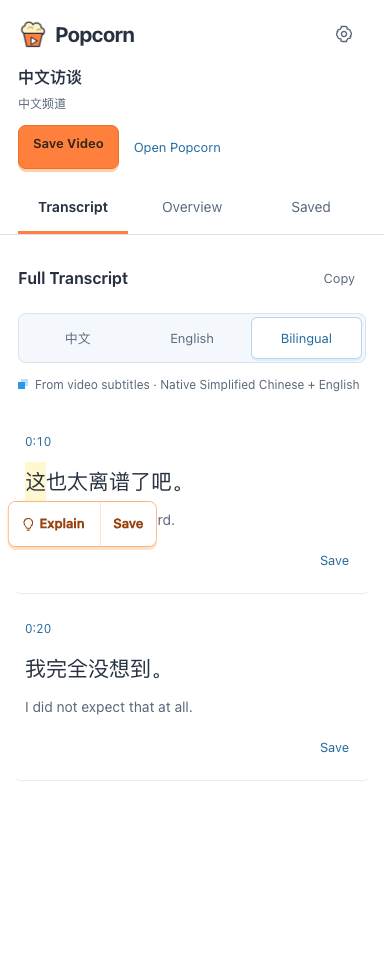
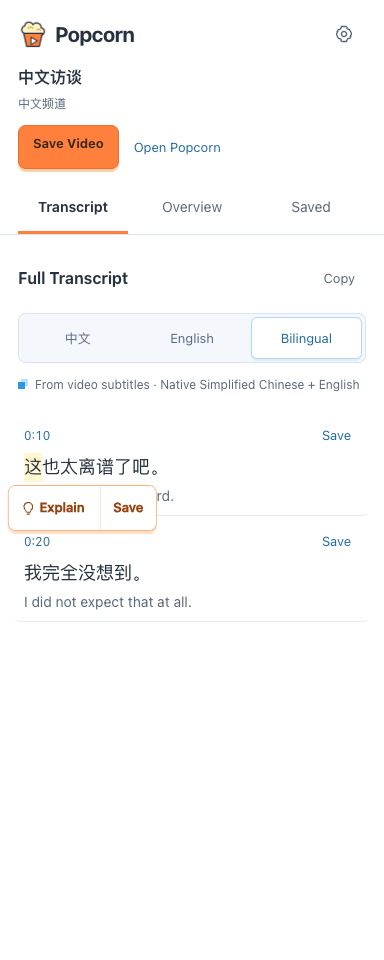
fix(extension): compact transcript rows

diff --git a/extension/sidepanel.css b/extension/sidepanel.css
@@ -65,16 +65,16 @@ svg { flex-shrink:0; vertical-align:middle; }
 .translation-spinner.visible { display:inline-block; }
 .transcript-source-badge { display:flex; align-items:center; gap:8px; padding:3px 0 12px; margin-bottom:5px; color:var(--text-secondary); font-size:12px; line-height:1.7; }
 .source-dot { width:7px; height:7px; display:inline-block; flex-shrink:0; margin-right:2px; background:var(--blue); box-shadow:3px -3px 0 #b9e1ff; }
-.transcript-entry { display:grid; grid-template-columns:minmax(0,1fr) auto; gap:4px 8px; position:relative; padding:12px 11px 10px; margin:0 -5px 6px; border:1px solid transparent; border-bottom-color:#e7edf5; border-radius:8px; cursor:pointer; overflow-wrap:anywhere; }
+.transcript-entry { display:grid; grid-template-columns:minmax(0,1fr) auto; gap:1px 8px; position:relative; padding:6px 10px 8px; margin:0 -5px 3px; border:1px solid transparent; border-bottom-color:#e7edf5; border-radius:8px; cursor:pointer; overflow-wrap:anywhere; }
 .transcript-entry:hover { background:#f7fbff; }
 .transcript-entry.active-playback { background:#f6fbff; border-color:#acd6f5; }
-.transcript-entry.active-playback::before { content:"Playing"; position:absolute; top:18px; right:12px; font-size:12px; color:var(--blue-ink); }
-.transcript-time { grid-column:1/-1; font-size:12px; font-variant-numeric:tabular-nums; color:var(--blue-ink); line-height:32px; }
-.transcript-text,.transcript-copy { grid-column:1/-1; min-width:0; width:100%; }
-.transcript-text,.transcript-original { font:400 21px/1.85 var(--font-reading); color:var(--text); }
+.transcript-entry.active-playback .transcript-time::after { content:" · Playing"; font-size:12px; }
+.transcript-time { grid-column:1; grid-row:1; align-self:center; font-size:12px; font-variant-numeric:tabular-nums; color:var(--blue-ink); line-height:1.5; }
+.transcript-text,.transcript-copy { grid-column:1/-1; grid-row:2; min-width:0; width:100%; }
+.transcript-text,.transcript-original { font:400 18px/1.6 var(--font-reading); color:var(--text); }
 .transcript-original,.transcript-translation { display:block; }
-.transcript-translation { margin-top:6px; font:400 14px/1.8 var(--font-reading); color:var(--text-secondary); }
-.transcript-save-btn { grid-column:2; justify-self:end; margin-top:3px; padding:6px 9px; background:none; border:1px solid transparent; border-radius:6px; color:var(--blue-ink); font-size:13px; }
+.transcript-translation { margin-top:3px; font:400 14px/1.6 var(--font-reading); color:var(--text-secondary); }
+.transcript-save-btn { grid-column:2; grid-row:1; justify-self:end; min-height:32px; min-width:44px; margin:0; padding:4px 8px; background:none; border:1px solid transparent; border-radius:6px; color:var(--blue-ink); font-size:13px; }
 .transcript-save-btn:hover:not(:disabled) { border-color:#b4d8f2; background:#fff; }
 .transcript-save-btn:disabled { color:var(--text-secondary); }
 .transcript-entry ::selection { background:var(--yellow-soft); color:var(--text); }

diff --git a/docs/assets/readme/SCREENSHOTS.md b/docs/assets/readme/SCREENSHOTS.md
@@ -41,3 +41,5 @@ These records demonstrate UI and recovery behavior; they do not establish the or
 `youtube-watching.png` retains the earlier real YouTube / Chrome-extension viewing capture. It predates the extension redesign; the current extension screenshots are listed above. Other older images in this folder are retained as historical assets but are no longer referenced by the current README.
 
 The English and Chinese README Mermaid diagrams use the same orange, sky blue and lemon families as the application; the source remains editable in Markdown.
+
+Transcript density was tightened after the desktop review: timestamp and Save share one row, Chinese text uses 18px / 1.6, and row padding is reduced. At a 384px viewport the same short fixture line measures about 78px in Chinese (previously 150px), or 103px bilingually (previously 181px). Longer text grows naturally; no subtitle content is clipped.
